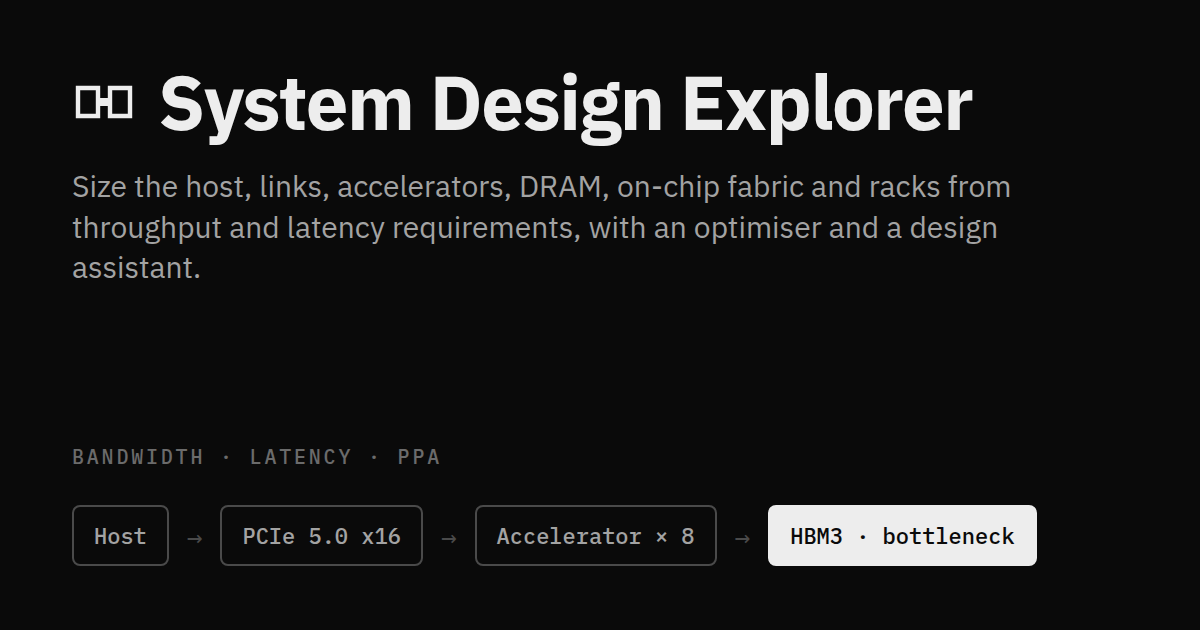
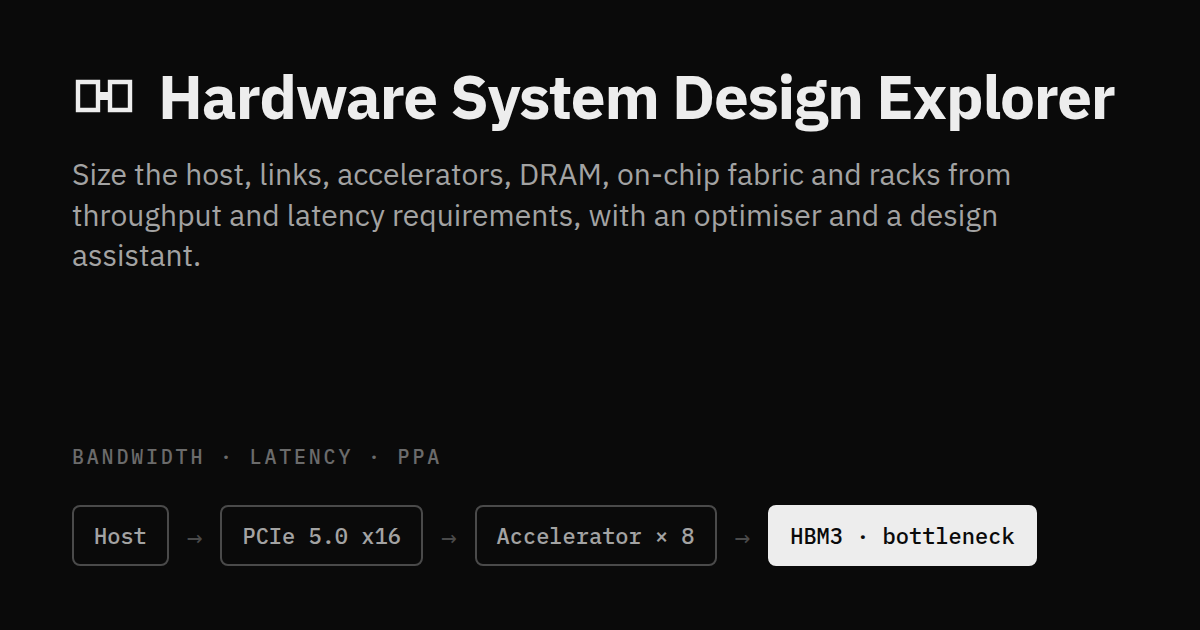
Rename to Hardware System Design Explorer; new address hw-system-design-explorer.vercel.app

Changed region(s): [[0.0617, 0.1206, 0.925, 0.4524]]

diff --git a/index.html b/index.html
@@ -3,18 +3,18 @@
 <head>
 <meta charset="UTF-8">
 <meta name="viewport" content="width=device-width, initial-scale=1">
-<title>System Design Explorer</title>
+<title>Hardware System Design Explorer</title>
 <meta name="description" content="Size the host, links, accelerators, DRAM and racks of a data-processing system from its throughput and latency requirements, with power, performance and area (PPA) for every choice.">
 <meta name="color-scheme" content="dark">
 <meta property="og:type" content="website">
-<meta property="og:title" content="System Design Explorer">
+<meta property="og:title" content="Hardware System Design Explorer">
 <meta property="og:description" content="Size the host, links, accelerators, DRAM, on-chip fabric and racks of a data-processing system from its throughput and latency requirements, with power, performance and area, an optimiser and a design assistant.">
-<meta property="og:url" content="https://data-bottleneck-explorer.vercel.app/">
-<meta property="og:image" content="https://data-bottleneck-explorer.vercel.app/og.png">
+<meta property="og:url" content="https://hw-system-design-explorer.vercel.app/">
+<meta property="og:image" content="https://hw-system-design-explorer.vercel.app/og.png">
 <meta property="og:image:width" content="1200">
 <meta property="og:image:height" content="630">
 <meta name="twitter:card" content="summary_large_image">
-<link rel="canonical" href="https://data-bottleneck-explorer.vercel.app/">
+<link rel="canonical" href="https://hw-system-design-explorer.vercel.app/">
 <link rel="preconnect" href="https://fonts.googleapis.com">
 <link rel="preconnect" href="https://fonts.gstatic.com" crossorigin>
 <link href="https://fonts.googleapis.com/css2?family=IBM+Plex+Mono:wght@400;500;600&family=IBM+Plex+Sans:wght@400;500;600&display=swap" rel="stylesheet">
@@ -312,7 +312,7 @@ footer{max-width:1240px; margin:0 auto; padding:10px 28px 36px; color:var(--t3);
 <body>
 <div id="page">
 <header class="top">
-  <a class="brand" href="./" aria-label="System Design Explorer, home"><svg viewBox="0 0 32 32" aria-hidden="true"><path d="M3 9h10v14H3zM19 9h10v14H19z" fill="none" stroke="currentColor" stroke-width="2.2"/><path d="M13 16h6" stroke="currentColor" stroke-width="4"/></svg><h1>System Design Explorer</h1></a>
+  <a class="brand" href="./" aria-label="Hardware System Design Explorer, home"><svg viewBox="0 0 32 32" aria-hidden="true"><path d="M3 9h10v14H3zM19 9h10v14H19z" fill="none" stroke="currentColor" stroke-width="2.2"/><path d="M13 16h6" stroke="currentColor" stroke-width="4"/></svg><h1>Hardware System Design Explorer</h1></a>
   <div class="ctrl">
     <select id="preset" aria-label="Example application"></select>
     <button class="btn" id="openAssist"><svg viewBox="0 0 16 16" fill="none" stroke="currentColor" stroke-width="1.5"><path d="M2 3h12v8H7l-3 3v-3H2z"/></svg>Assistant</button>
@@ -350,7 +350,7 @@ footer{max-width:1240px; margin:0 auto; padding:10px 28px 36px; color:var(--t3);
 <footer>
   <p class="checked" id="checkedLine"></p>
   A first-order sizing model; every catalogue value is an indicative figure (see the Model tab).
-  Source on <a href="https://github.com/BrendanJamesLynskey/Data_Bottleneck_Explorer">GitHub</a> · built by <a href="https://brendanjameslynskey.github.io/">Brendan Lynskey</a>
+  Source on <a href="https://github.com/BrendanJamesLynskey/HW_System_Design_Explorer">GitHub</a> · built by <a href="https://brendanjameslynskey.github.io/">Brendan Lynskey</a>
 </footer>
 </div>
 
@@ -2206,7 +2206,7 @@ const AGENT_TOOLS = [
    input_schema:{type:'object', properties:{questions:{type:'array', minItems:1, maxItems:3, items:{type:'object', properties:{
      question:{type:'string'}, why:{type:'string', description:'One short clause on why it matters.'}, options:{type:'array', minItems:2, maxItems:4, items:{type:'string'}}}, required:['question','options']}}}, required:['questions']}},
 ];
-const AGENT_SYSTEM = `You are the design assistant inside System Design Explorer, a first-order sizing model of data-processing systems: hosts, host links (PCIe, UCIe), accelerators with an on-chip interconnect (mesh, torus, ring or crossbar NoCs, or AMBA: CHI coherent mesh, AXI and ACE crossbars, AXI4-Stream pipelines, AHB and APB buses) and SRAM, device DRAM, scale-up fabrics, scale-out networks and racks. A person describes in plain language what a system has to do. Turn that into the model's inputs, ask for missing details that matter, then choose hardware that meets the requirement with sensible power and area. The page redraws live as you call tools, so the person watches the design take shape.
+const AGENT_SYSTEM = `You are the design assistant inside Hardware System Design Explorer, a first-order sizing model of data-processing systems: hosts, host links (PCIe, UCIe), accelerators with an on-chip interconnect (mesh, torus, ring or crossbar NoCs, or AMBA: CHI coherent mesh, AXI and ACE crossbars, AXI4-Stream pipelines, AHB and APB buses) and SRAM, device DRAM, scale-up fabrics, scale-out networks and racks. A person describes in plain language what a system has to do. Turn that into the model's inputs, ask for missing details that matter, then choose hardware that meets the requirement with sensible power and area. The page redraws live as you call tools, so the person watches the design take shape.
 
 How the model reads its inputs:
 - rate_bytes_per_s is bytes of input processed per second by the whole system. Everything else is per byte processed: link bytes in and out (host ↔ accelerator), extra DRAM reads and writes (weights, tables, intermediates, multiple passes), arithmetic in operations per byte, tile-to-tile bytes on the on-chip network, and peer bytes exchanged between accelerators inside the scale-up domain or across the network.
@@ -2341,7 +2341,7 @@ const ADAPTERS = {
     pushResults:rs=>rs.forEach(r=>chat.history.push({role:'tool', tool_call_id:r.id, content:r.output})),
     async call(){
       const r = await fetchJSON('https://openrouter.ai/api/v1/chat/completions', {authorization:'Bearer '+prov.key,
-          'HTTP-Referer': location.protocol.startsWith('http') ? location.origin : 'https://data-bottleneck-explorer.vercel.app', 'X-Title':'System Design Explorer'},
+          'HTTP-Referer': location.protocol.startsWith('http') ? location.origin : 'https://hw-system-design-explorer.vercel.app', 'X-Title':'Hardware System Design Explorer'},
         {model:prov.model, messages:[{role:'system', content:AGENT_SYSTEM}, ...chat.history], tools:toolDefs().map(t=>({type:'function', function:t}))});
       const ch = (r.choices||[])[0] || {}, msg = ch.message || {role:'assistant', content:''};
       chat.history.push(msg);

diff --git a/tools/og.js b/tools/og.js
@@ -8,7 +8,7 @@ const html = `<!doctype html><html><head><meta charset="utf-8">
   .wrap{position:absolute; inset:64px 72px}
   .brand{display:flex; align-items:center; gap:22px}
   .brand svg{width:64px; height:64px}
-  h1{margin:0; font-size:76px; font-weight:700; letter-spacing:-.02em; line-height:1}
+  h1{margin:0; font-size:62px; font-weight:700; letter-spacing:-.02em; line-height:1}
   p{margin:26px 0 0; font-size:30px; line-height:1.35; color:#a3a3a3; max-width:1000px}
   .row{position:absolute; left:0; right:0; bottom:0; display:flex; align-items:center; gap:18px; font-family:'IBM Plex Mono',monospace; font-size:22px}
   .b{border:2px solid #4a4a4a; border-radius:8px; padding:14px 20px; color:#a3a3a3; white-space:nowrap}
@@ -17,7 +17,7 @@ const html = `<!doctype html><html><head><meta charset="utf-8">
   .tag{position:absolute; left:0; bottom:96px; font-family:'IBM Plex Mono',monospace; font-size:20px; letter-spacing:.14em; color:#6b6b6b}
 </style></head><body><div class="wrap">
   <div class="tag">BANDWIDTH · LATENCY · PPA</div>
-  <div class="brand"><svg viewBox="0 0 32 32"><path d="M3 9h10v14H3zM19 9h10v14H19z" fill="none" stroke="#ededed" stroke-width="2.2"/><path d="M13 16h6" stroke="#ededed" stroke-width="4"/></svg><h1>System Design Explorer</h1></div>
+  <div class="brand"><svg viewBox="0 0 32 32"><path d="M3 9h10v14H3zM19 9h10v14H19z" fill="none" stroke="#ededed" stroke-width="2.2"/><path d="M13 16h6" stroke="#ededed" stroke-width="4"/></svg><h1>Hardware System Design Explorer</h1></div>
   <p>Size the host, links, accelerators, DRAM, on-chip fabric and racks from throughput and latency requirements, with an optimiser and a design assistant.</p>
   <div class="row"><span class="b">Host</span><span class="a">→</span><span class="b">PCIe 5.0 x16</span><span class="a">→</span><span class="b">Accelerator × 8</span><span class="a">→</span><span class="b hot">HBM3 · bottleneck</span></div>
 </div></body></html>`;

diff --git a/test/check.js b/test/check.js
@@ -1,4 +1,4 @@
-// Regression and reference checks for System Design Explorer, run in headless Chrome.
+// Regression and reference checks for Hardware System Design Explorer, run in headless Chrome.
 //   node test/check.js            check against test/golden.json
 //   node test/check.js --update   rewrite the golden file after an intended model change
 // Checks: no page errors; every published reference figure within tolerance; overhead breakdowns multiply out to the

diff --git a/README.md b/README.md
@@ -1,4 +1,4 @@
-# System Design Explorer
+# Hardware System Design Explorer
 
 An interactive sizing tool for data-processing systems: a host CPU and its memory, a host link
 (PCIe or on-package UCIe), accelerators with on-chip SRAM and device DRAM, scale-up fabrics and
@@ -7,7 +7,7 @@ peak-to-average ratio, headroom) and the workload (bytes over the link and throu
 processed, arithmetic per byte), and it shows which component is the bottleneck. It also gives the
 minimum specification of every component, and the power, performance and area (PPA) of the result.
 
-**Live app:** https://data-bottleneck-explorer.vercel.app/ (also mirrored on [GitHub Pages](https://brendanjameslynskey.github.io/Data_Bottleneck_Explorer/))
+**Live app:** https://hw-system-design-explorer.vercel.app/ (also mirrored on [GitHub Pages](https://brendanjameslynskey.github.io/HW_System_Design_Explorer/))
 
 ![System view](system.png)
 
